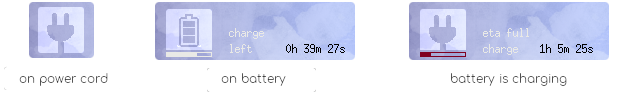
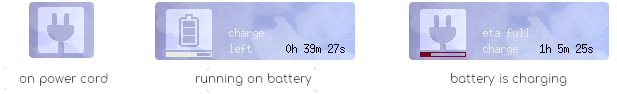
Added more details to power modes

Changed region(s): [[0.3079, 0.7872, 0.5235, 0.9149]]

diff --git a/README.md b/README.md
@@ -29,6 +29,8 @@ Depending on your linux distribution, you may need to [configure the proper netw
 
 ![network](images/screenshots/network-modes.png)
 ### Power modes
+Different states to show how your laptop is currently consuming power 
+
 ![power](images/screenshots/power-modes.png)
 ### USB storage
 USB devices are available for you to mix and match to the hardware you have.
